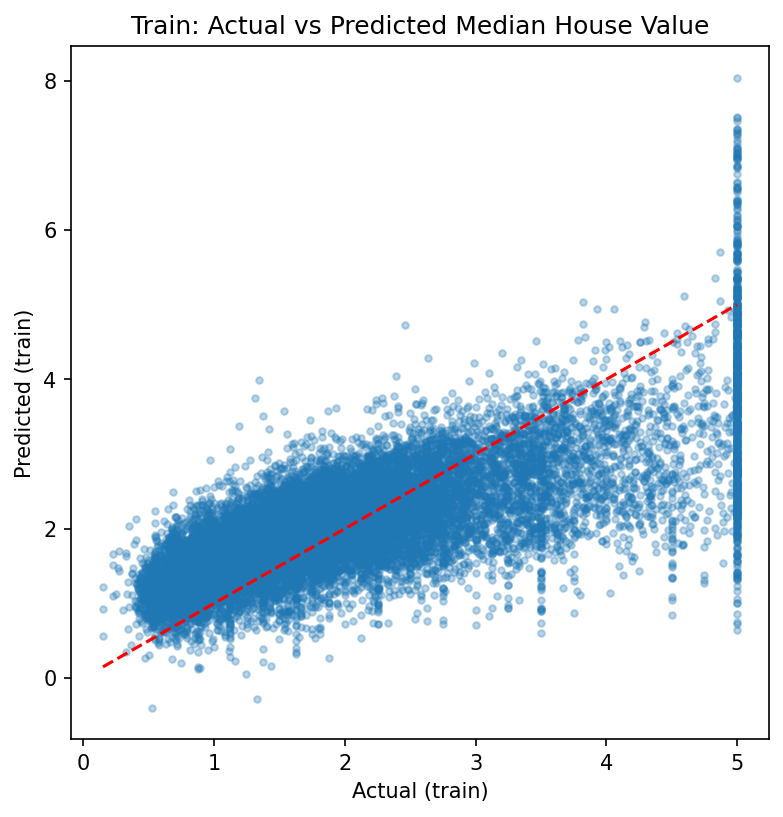
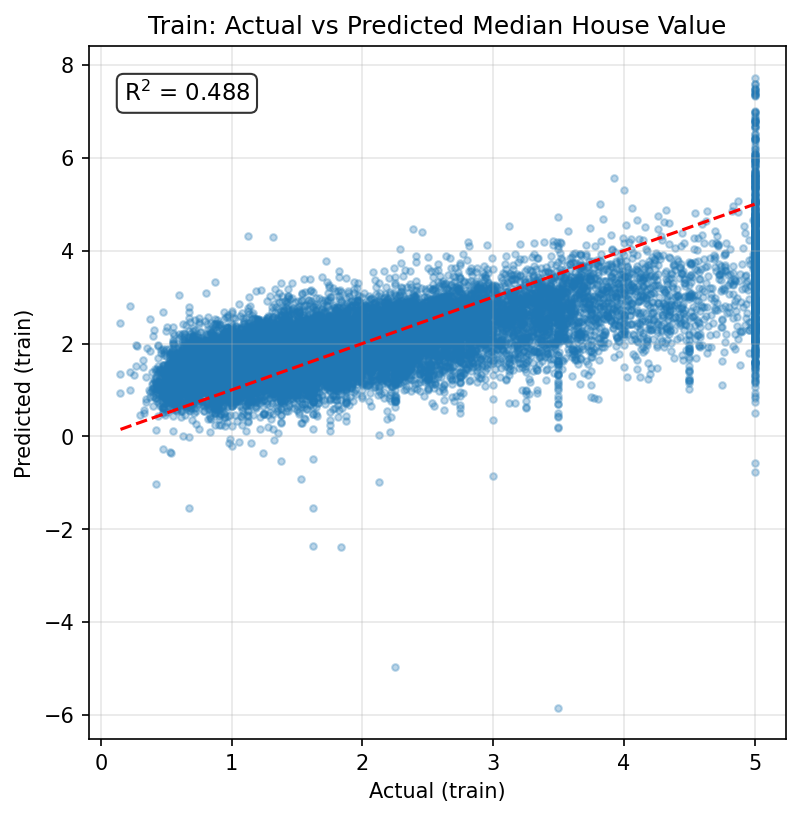
try larger hidden layers (100, 50)

diff --git a/Source/nn_pipeline.py b/Source/nn_pipeline.py
@@ -19,8 +19,9 @@ X_train, X_test, y_train, y_test = train_test_split(
 )
 
 # 3. Fit an MLPRegressor
+ # Increased from (64, 32) to (100, 50) to test whether a larger network improves fit
 model = MLPRegressor(
-    hidden_layer_sizes=(64, 32),
+    hidden_layer_sizes=(100, 50),
     activation="relu",
     solver="adam",
     early_stopping=True,
